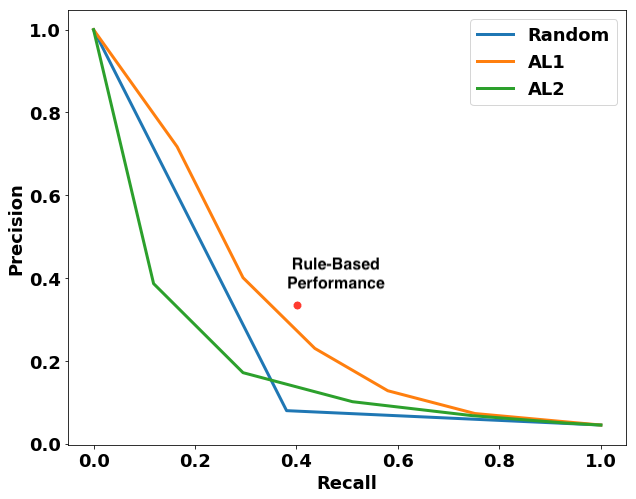
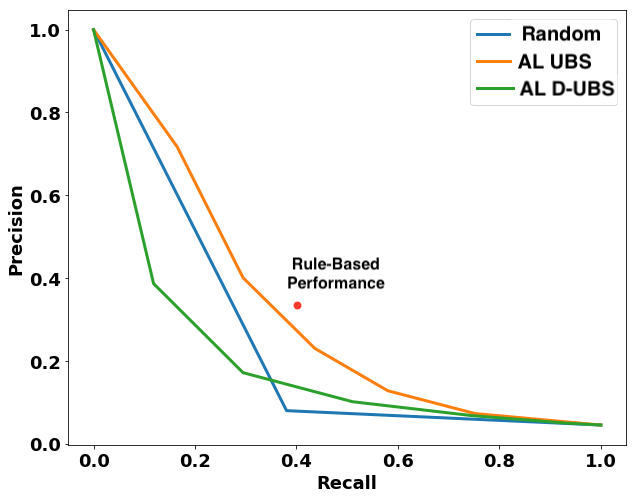
Improving names and indicating that UBS are sampling strategies, not AL

Changed region(s): [[0.8066, 0.0301, 0.9858, 0.2104]]

diff --git a/introduction.tex b/introduction.tex
@@ -1,11 +1,14 @@
 \section{Introduction}
 \label{sect:apner_introduction}
-
-In many fields of science, the scientific literature contains large quantities of data in unstructured form that,
-if extracted, could benefit research.
+A wealth of valuable research data is published in unstructured form in millions of scientific articles each year.%\cite latest version of that report?"
+Reading and extracting pertinent information from those articles has
+become an unmanageable task for scientists and makes
+it hard to build on existing results. 
+%In many fields of science, the scientific literature contains large quantities of important data in unstructured form that,
+%if extracted, could benefit research.
 A major obstacle to scientific fact extraction is the difficulty of identifying scientific entities in text.
 \ian{It seems to me that the preceding two sentences that I added are needed to provide context.
-They need to be improved, though.}
+They need to be improved, though.}\roselyne{better?}
 Despite much progress in natural language processing (NLP), 
 scientific named entity recognition (NER) remains a research challenge.
 The main reason for this gap between NLP advances and scientific extraction needs is the lack of carefully annotated datasets for specific targets.
@@ -67,19 +70,20 @@ chemistry are of little value.
 Scientists and engineers lack access to a freely available large database of polymers and their properties.
 %\kyle{should cite our previous papers about polyNER. ANd change phrasing here to make it sound like polyner is now well established
 %and what we are doing here is enhancing it with active learning. }
-To address these challenges, we have designed polyNER, a system for generating training data for scientific NER using semi-supervised and active learning.
+To address these challenges, we have previously designed polyNER, a system for generating training data for scientific NER using semi-supervised and active learning.
 PolyNER uses natural language processing to produce sets of candidate entities;
-experts then iteratively approve or reject candidates in small batches selected using an active learning
-\ian{You say that polyNER uses active learning, then you say that you enhance it with AL in this paper. 
-Inconsistent?}
- approach;
-the labels are used to train a series of context-based word vector classifiers after each iteration.
+experts then iteratively approve or reject candidates via an an easy-to-use Web interface;
+%in small batches selected using an active learning
+%\ian{You say that polyNER uses active learning, then you say that you enhance it with AL in this paper. 
+%Inconsistent?}\roselyne{yes thank you, made some changes (too fast) after Kyle pointed out that we had already introduced polymer in the now accepted paper}.
+% approach;
+the labels are used to train context-based word vector classifiers. %after each iteration.
 PolyNER's labels can also be used to train other machine learning models to leverage features beyond their context to recognize target entities.
 The goal is
 to substitute the labor-intensive processes of assembling a large
 manually annotated corpus (and reduce costs) by using small numbers of carefully selected candidates to be labeled via focused expert input. 
 
-In this paper, we seek to improve polyNER's performance in both the generation of candidate entities and the labeling process.
+In this paper, we seek to improve polyNER's performance in the generation of candidate entities, the labeling process and the classification of entities.
 We experiment with different \textit{representative} (commonly used) entities to generate candidates;
 % and tune the word embedding model parameters to increase the yield of actual scientific entities among candidates; 
 we use active learning with maximum entropy uncertainty sampling and two different pools of unlabeled data to train classifiers and compare their learning rate after five iterations. 

diff --git a/results.tex b/results.tex
@@ -203,7 +203,7 @@ We have obtained better performance with more labels (897) in our previous imple
 
 \centering
 \begin{minipage}[b]{.4\textwidth}
-\includegraphics[trim=0in 0.1in 0.1in 0.in,clip,width=1.0\textwidth]{figures/rocs_round5.png}
+\includegraphics[trim=0in 0.1in 0.1in 0.in,clip,width=1.0\textwidth]{figures/rocs_round5_new.png}
 \captionsetup{labelformat=empty}
 \caption{Receiver Operating Characteristic curve for last round of active learning. 
 %\logan{I think we could benefit from easier-to-remember labels than AL1 and AL2. I don't remember which is which. Also why does the file say Round 5 and the text iterating curves? If we say ROC is a worse plot, why even show it?}\roselyne{ROC is not worse but perhaps incomplete}
@@ -217,9 +217,9 @@ We have obtained better performance with more labels (897) in our previous imple
 \end{minipage}
 \setcounter{figure}{8}  
 \caption{Receiver Operation and Precision Recall Curves for last round of active learning. 
-ROC curves improved from initial round, AUCs for active learning are 0.74 and 0.7 compared to initial 0.62. The classifier based on random sampling does not indicate learning. PR curves also show improvement over initial poor performance,
-the random strategy has only learned two probabilities for target and non-targets; the other two active learning strategies are lifting away from the bottom corner and indicating discriminative capacities.
-In both types of plots, active learning using NLP-filtered candidates outperforms the active learning using distance candidates and approaches rule-based performance.
+ROC curves improved from initial round, AUCs for active learning are 0.74 and 0.7 compared to initial 0.62. The classifier based on random sampling does not indicate learning based on AUC. PR curves also show improvement over initial poor performance,
+the random strategy has only shows two probabilities for target and non-targets predictions; the other two active learning strategies are lifting away from the bottom corner and indicating discriminative capacities.
+In both types of plots, active learning using NLP-filtered candidates (AL UBS) outperforms the active learning using distance candidates (AL D-UBS) and approaches rule-based performance.
 % AL-1 refers to active learning using NLP-filtered nouns. AL-2 refers to active learning using candidates deemed similar to representative entities.  %\logan{<soapbox>Is it standard practice to use such uninformativ figure captions in CS? I was taught to make the captions almost standalone from the text</soapbox>}
 }\label{fig:rocs_prcs_round5}
 \end{figure*}
